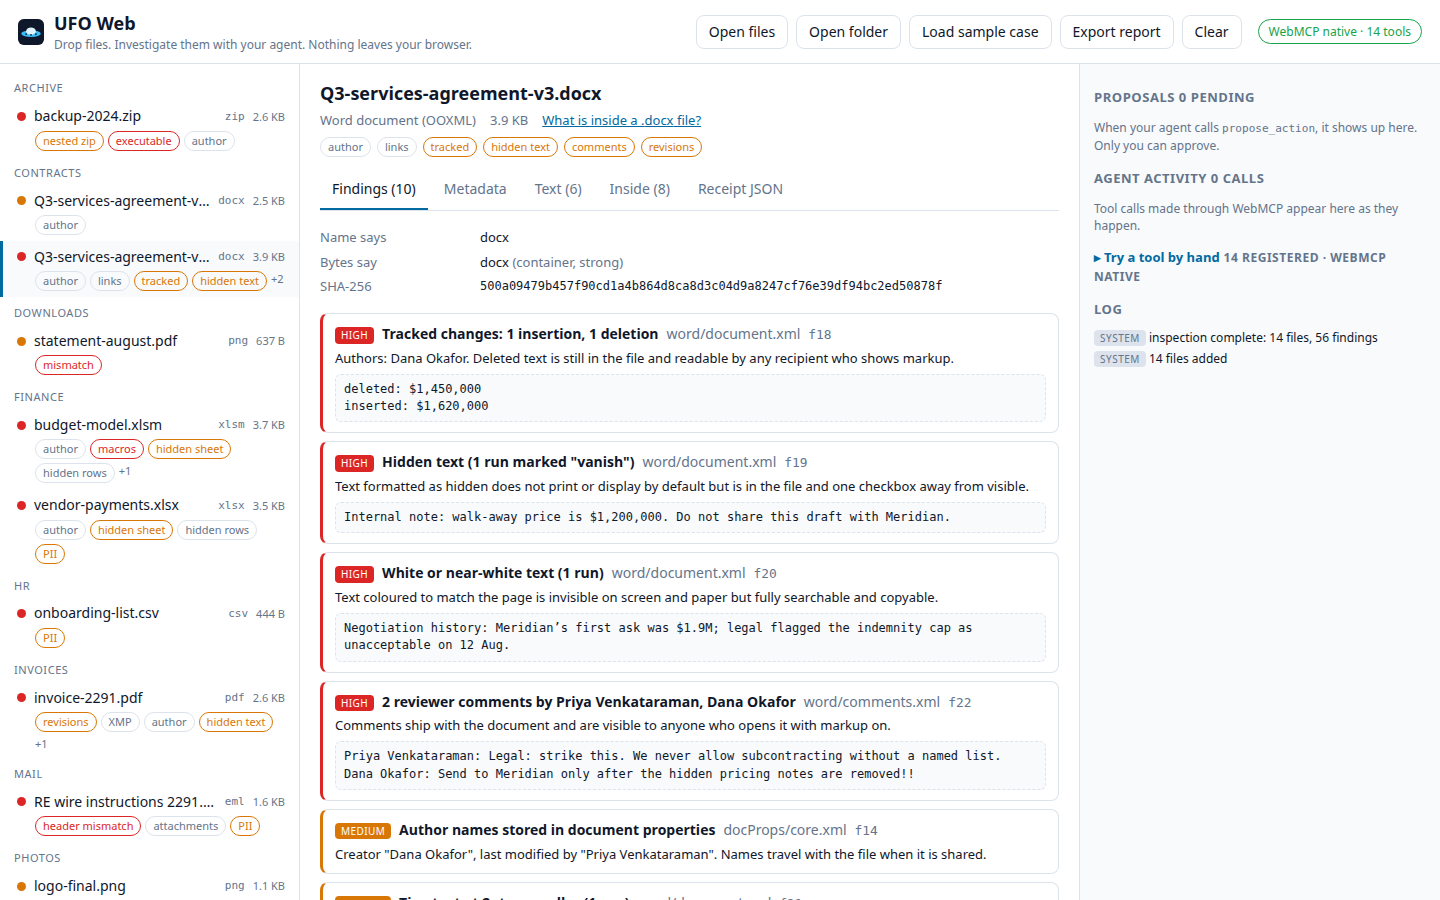
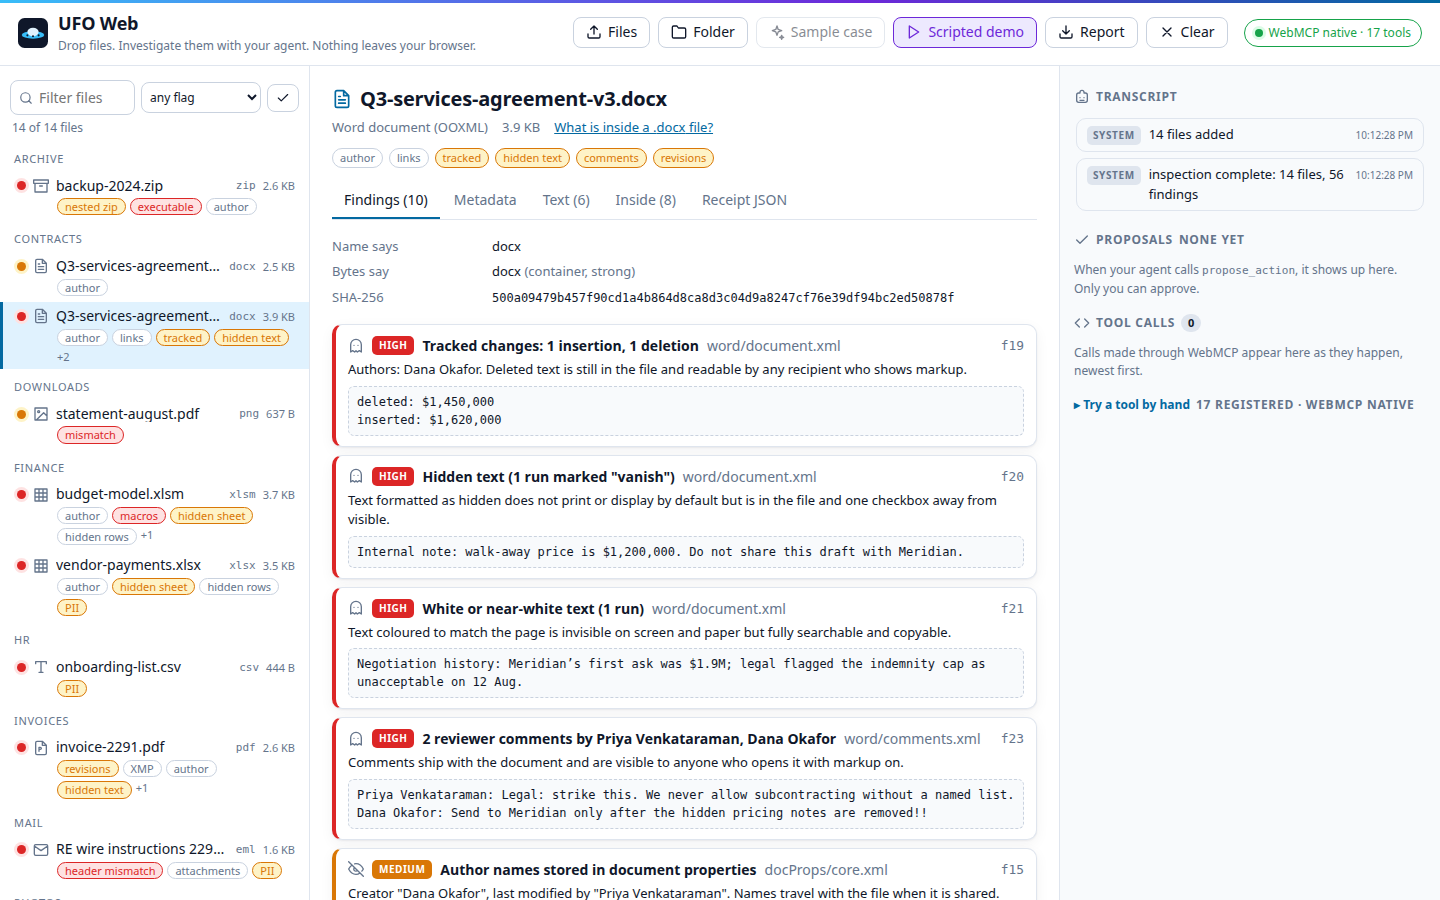
Prefer the geotagged photo in the demo; extend narration; refresh screenshots; update README

diff --git a/src/ui/demo.ts b/src/ui/demo.ts
@@ -135,7 +135,8 @@ export async function runScriptedDemo(): Promise<void> {
     await pause(600)
 
     say('agent', 'Proposing actions. Your call on each.')
-    const strip = files.find((f) => ['jpeg', 'png', 'docx', 'xlsx', 'pptx', 'pdf', 'docm', 'xlsm', 'pptm'].includes(f.kind) && (f.flags.includes('has_gps') || f.flags.includes('has_author')))
+    const cleanable = files.filter((f) => ['jpeg', 'png', 'docx', 'xlsx', 'pptx', 'pdf', 'docm', 'xlsm', 'pptm'].includes(f.kind) && (f.flags.includes('has_gps') || f.flags.includes('has_author')))
+    const strip = cleanable.sort((a, b) => (b.flags.includes('has_gps') ? 4 : 0) + (b.flags.includes('has_device_ids') ? 2 : 0) + b.flags.length - ((a.flags.includes('has_gps') ? 4 : 0) + (a.flags.includes('has_device_ids') ? 2 : 0) + a.flags.length))[0]
     if (strip) await invoke('propose_action', { path: strip.path, action: 'strip_metadata', reason: `Identity metadata (${strip.flags.filter((x) => ['has_gps', 'has_author', 'has_device_ids', 'has_comments', 'has_revision_history'].includes(x)).join(', ')}) would leave with this file.`, severity: 'high' })
     const quarantine = files.find((f) => f.flags.includes('has_executable') || f.flags.includes('has_macros'))
     if (quarantine) await invoke('propose_action', { path: quarantine.path, action: 'quarantine', reason: quarantine.flags.includes('has_executable') ? 'Carries executable code. Keep it out of anything shared.' : 'Carries a macro project. Keep it out of anything shared until reviewed.', severity: 'high' })
@@ -152,7 +153,8 @@ export async function runScriptedDemo(): Promise<void> {
     const results = await invoke('list_proposals', {})
     const list = (results.proposals ?? []) as { status: string; action: string; result?: { message?: string } }[]
     const approved = list.filter((p) => p.status === 'approved')
-    say('agent', `${approved.length} approved, ${list.length - approved.length} rejected.${approved.find((p) => p.action === 'strip_metadata')?.result?.message ? ` Cleaned copy: ${approved.find((p) => p.action === 'strip_metadata')!.result!.message}.` : ''} Exporting the report.`)
+    const stripResult = approved.find((p) => p.action === 'strip_metadata')?.result?.message
+    say('agent', `${approved.length} approved, ${list.length - approved.length} rejected.${stripResult ? ` ${stripResult[0].toUpperCase()}${stripResult.slice(1)}.` : ''} Exporting the report.`)
     const report = await invoke('export_report', { format: 'markdown' })
     say('agent', `Report ready: ${report.file} (${report.bytes} bytes). It ends with the ufo command line that reproduces these receipts.`)
   } catch (error) {

diff --git a/README.md b/README.md
@@ -2,14 +2,15 @@
 
 **Drop files. Investigate them with your agent. Nothing leaves your browser.**
 
-Live: **https://web.universalfileopener.com** · Demo video: see `docs/SUBMISSION.md` · License: MIT
+Live: **https://web.universalfileopener.com** · Demo video: see [docs/SUBMISSION.md](docs/SUBMISSION.md) · License: MIT
 
 UFO Web is a file-investigation workspace that exposes itself to AI agents through
 [WebMCP](https://github.com/webmachinelearning/webmcp). You drop a folder. The page reads what is
-really inside every file, in the tab, with no upload. Your agent gets fourteen structured tools to reason
+really inside every file, in the tab, with no upload. Your agent gets seventeen structured tools to reason
 across all of it: true type versus claimed type, hidden and white text, tracked changes, comments, hidden
 sheets and slides, GPS and camera serials, macros, nested archives, look-alike characters in code,
-personal-data patterns, prompt-injection text. You get the approve button.
+personal-data patterns, prompt-injection text, who appears where, what is a copy of what. You get the
+approve button.
 
 It is the open-source browser edition of [Universal File Opener](https://universalfileopener.com) and
 emits receipts with the same identity fields as the `ufo inspect --json` command line.
@@ -20,14 +21,14 @@ emits receipts with the same identity fields as the `ufo inspect --json` command
 
 | The agent does | The person does |
 | --- | --- |
-| Orients across hundreds of files (`list_files`, `find`, `search`) | Drops the folder; nothing is uploaded |
-| Reads what humans miss: hidden text, deleted tracked changes, veryHidden sheets, invisible PDF text, bidi characters (`hidden_content_scan`, `extract_text`) | Judges whether it matters |
-| Builds a cross-file picture: who touched what, when (`timeline`, `compare`, `privacy_scan`) | Decides what is acceptable to share |
+| Orients across hundreds of files (`list_files`, `find`, `search`, `filter_file_list`) | Drops the folder; nothing is uploaded |
+| Reads what humans miss: hidden text, deleted tracked changes, veryHidden sheets, invisible PDF text, bidi characters (`hidden_content_scan`, `extract_text`, `peek_bytes`) | Judges whether it matters |
+| Builds the cross-file picture: who appears where, what is a copy, what happened when (`entities`, `duplicates`, `timeline`, `compare`, `privacy_scan`) | Decides what is acceptable to share |
 | Proposes actions under its own identity (`propose_action`) | **Approves or rejects.** There is no approve tool; the button is human-only |
 | Writes the report (`export_report`) | Keeps the cleaned copies and the decision log |
 
-Approving `strip_metadata` produces a cleaned copy in the page (JPEG, PNG, Word, Excel, PowerPoint, PDF)
-and re-inspects it, so the report shows findings before and after. Nothing is ever written over the original.
+Approving `strip_metadata` produces a cleaned copy in the page (JPEG, PNG, Word, Excel, PowerPoint, PDF),
+re-inspects it, and records findings before and after. Nothing is ever written over the original.
 
 ## Try it
 
@@ -36,43 +37,54 @@ and ask: *"Load the sample case, run a privacy scan, and propose what to clean b
 Site tools need the GPT-5.6 Sol or Terra models.
 
 **Chrome 149+.** Enable `chrome://flags/#enable-webmcp-testing`, open the page, then DevTools → Application →
-WebMCP lists the tools and lets you run them. The "Try a tool by hand" panel in the page does the same, and
-the console has `ufoWeb.tools()`, `ufoWeb.call('privacy_scan', {})`, `ufoWeb.state()`.
+WebMCP lists the tools and lets you run them. Or press **Scripted demo** in the header: it replays a fixed
+sequence of tool calls through the browser's own `modelContext.getTools` and `executeTool`, narrates what it
+finds in the transcript, and stops at the proposals until you decide. No language model is involved and it
+says so.
 
 **Any browser.** Without a native implementation the page loads the MIT `@mcp-b/global` polyfill so MCP-B
-extension clients can still call the tools. The workspace itself works everywhere.
+extension clients can still call the tools. The workspace, the scripted demo, and the "Try a tool by hand"
+console work everywhere. The console also has `ufoWeb.tools()`, `ufoWeb.call('privacy_scan', {})`,
+`ufoWeb.state()`.
 
 Click **Load the sample case** for a synthetic 14-file "Q3 close" folder built to exercise every scanner:
 a contract with tracked changes, a hidden paragraph, white text, 1pt text and reviewer comments; a workbook
 with a veryHidden salaries sheet; a macro workbook with an Auto_Open stub; a deck with a hidden slide and
 speaker notes; an invoice PDF with invisible text, white text, off-page text, two revisions and disagreeing
 XMP; a geotagged photo with camera serial and thumbnail; a wire-fraud email with a mismatched Reply-To; a
-PNG that was renamed `.pdf`; a nested ZIP carrying a renamed executable; a Python file with Trojan Source
-bidi characters and a Cyrillic homoglyph; a CSV of fake SSNs and card numbers; and a README that tries to
-prompt-inject the agent. Every name, number and address is fictional.
+PNG that was renamed `.pdf`; a nested ZIP carrying a renamed executable and a byte-identical copy of an
+older contract; a Python file with Trojan Source bidi characters and a Cyrillic homoglyph; a CSV of fake
+SSNs and card numbers; and a README that tries to prompt-inject the agent. Every name, number and address
+is fictional.
 
 ## The tools
 
 | Tool | What it does | Notes |
 | --- | --- | --- |
 | `workspace_status` | Counts, progress, findings by severity, pending proposals | read-only |
-| `load_sample_case` | Loads the synthetic case and registers the investigation tools | |
+| `load_sample_case` | Loads the synthetic case | |
 | `list_files` | Tree with true type, size, flags, finding counts; filters; nested entries | read-only |
-| `inspect` | Receipt for one file: identity, name-vs-bytes, flags, findings, container, text units; sections for depth | read-only, untrusted content |
-| `extract_text` | Paged text with provenance (page, sheet, slide, notes, comments, hidden text) | read-only, untrusted content |
+| `inspect` | Receipt for one file: identity, name-vs-bytes, flags, findings, container, text units; sections for depth; selects it in the UI | read-only, untrusted content |
+| `extract_text` | Paged text with provenance (page, sheet, slide, notes, comments, hidden text, strings) | read-only, untrusted content |
 | `search` | Text, metadata, findings and archive-entry search across everything | read-only, untrusted content |
 | `find` | Structured query: flags, kind, family, author, size, mismatch, severity | read-only |
 | `privacy_scan` | Everything that identifies a person, place, device or organization | read-only |
 | `hidden_content_scan` | Everything a reader would not see | read-only |
+| `entities` | People, addresses, domains, organizations, devices, with the files each appears in | read-only |
+| `duplicates` | Byte-identical files anywhere, including inside archives; same name, different content | read-only |
 | `compare` | Two files: bytes, metadata, flags, text diff | read-only |
 | `timeline` | Every internal date merged, with anomalies | read-only |
-| `propose_action` | note, flag, strip_metadata, rename_extension, quarantine; awaits the human | writes a proposal |
+| `peek_bytes` | Bounded hex dump of any file or archive entry | read-only |
+| `propose_action` | note, flag, strip_metadata, rename_extension, quarantine; awaits the person | writes a proposal |
 | `list_proposals` | Decisions and results (cleaned-copy hash, findings before/after) | read-only |
 | `export_report` | JSON or Markdown: receipts, findings, decisions, `ufo` CLI reproduce block | offers a download |
+| `filter_file_list` | The sidebar's filter form, exposed through the **declarative** API (`toolname`, `toolparamdescription`, `toolautosubmit`); the agent and the person see the same filtered list | declarative, Chrome |
 
-`workspace_status` and `load_sample_case` are registered on page load. The other twelve are registered when
-the workspace gains files and unregistered when it is cleared, so an agent listening for `toolchange` sees
-the workspace come alive.
+All seventeen imperative tools are registered at page load, so a host sees the whole set on first contact.
+When the person clears the workspace the investigation group is unregistered (`toolchange` fires) and it
+returns with the next files. [docs/evals/ufo-web.evals.json](docs/evals/ufo-web.evals.json) holds
+eighteen eval cases in the format of Chrome's WebMCP evals CLI, including one whose correct answer is to
+call nothing.
 
 ## WebMCP implementation
 
@@ -87,6 +99,11 @@ the workspace come alive.
 - Extracted text is always wrapped in `<<<UNTRUSTED FILE CONTENT ...>>>` delimiters and the tool
   descriptions say so. The sample README contains an injection attempt; because approvals are not exposed
   as tools, the text has nothing to act on.
+- The declarative filter form answers agent submissions through `SubmitEvent.respondWith` with the same
+  content shape.
+- Verified against Chrome 149's own API in [`scripts/probe-api.mjs`](scripts/probe-api.mjs): `getTools()`
+  lists 18 tools with their annotations, `executeTool()` round-trips both an imperative and the declarative
+  tool, and `toolchange` fires 16 times when the workspace is cleared.
 - Registration code, for the record:
 
 ```ts
@@ -114,25 +131,41 @@ Office packages, pdf.js for PDF, exifr for EXIF/XMP/IPTC. pdf-lib rewrites PDFs 
 - **PowerPoint**: hidden slides, speaker notes, per-slide text.
 - **PDF**: Info dictionary and XMP (and whether they disagree), incremental revisions, trailing data,
   JavaScript, embedded files, text per page, and an operator-list scan for render-mode-3/7 invisible text,
-  white-filled text, and text drawn outside the page.
+  white-filled text, and text drawn outside the page. A wedged parse times out instead of stalling the queue.
 - **Images**: EXIF GPS, artist, copyright, body and lens serials, software, description, embedded
   thumbnail, PNG text chunks, data appended after the end marker.
 - **Email**: header chain, Reply-To and Return-Path domain mismatches, originating IP, attachments with
   executable extensions, body text.
 - **Archives**: entries, encrypted entries, trailing data, path-traversal names, nested inspection two
   levels deep within a byte budget.
+- **Executables and unknown binaries**: printable strings (ASCII and UTF-16), PE header (machine, subsystem,
+  sections, link timestamp onto the timeline, packer hints), hex peeks on demand.
 - **Every text**: zero-width, bidi and control characters with line and column; mixed-script words;
   SSN, card (Luhn), IBAN (mod-97), email, phone, address, IP patterns; credential-shaped strings; text
-  addressed to AI agents.
+  addressed to AI agents. All scanners are linear in input size; long lines are capped.
 
 The receipt schema is [`src/core/types.ts`](src/core/types.ts). Its identity fields (`path`, `name`,
 `kind`, `extension`, `sizeBytes`, `sha256`, `lastModifiedMillis`, `nameSaysKind`, `bytesSayKind`,
 `nameAndBytesDisagree`) are the ones `ufo inspect --json` prints, so a web receipt and a CLI receipt line up.
 
+## Tests
+
+```bash
+npm test                      # 60 unit tests: parsers on the sample case, hostile input, the workspace
+node scripts/e2e.mjs          # full flow in Chrome 149 with --enable-features=WebMCP
+node scripts/e2e-extra.mjs    # declarative tool, scripted demo, file picker, mobile, dark mode
+node scripts/probe-api.mjs    # the browser's own getTools / executeTool / toolchange
+```
+
+The hostile-input suite truncates every sample at four points, feeds random bytes under all 196 known
+extensions, builds archives with traversal names, five-level nesting, appended data and encrypted entries,
+and checks that a 300 KB single-line file scans in under a second. Every case must resolve to a receipt;
+errors are recorded in it, never thrown.
+
 ## Limits, stated honestly
 
 - Per file 150 MB, workspace 600 MB, 1500 files, PDFs read to 60 pages, sheets to 2000 rows, nested
-  archives two levels deep.
+  archives two levels deep, text scanned to 600K characters per file.
 - Legacy OLE formats (.doc, .xls, .ppt, .msg), RAR/7z contents, and repair, OCR, redaction and conversion are
   not in the browser edition. The receipts say so and name the `ufo` command or app that does it.
 - Pattern matches are pattern matches. Card numbers pass Luhn and IBANs pass mod-97; emails and phones are
@@ -143,11 +176,10 @@ The receipt schema is [`src/core/types.ts`](src/core/types.ts). Its identity fie
 ```bash
 npm ci
 npm run dev          # Vite dev server
-npm test             # 22 unit tests over the sample case (vitest)
+npm test             # vitest
 npm run build        # tsc + vite build into dist/
 npm run samples      # regenerate public/samples (Python 3, Pillow, piexif)
-node scripts/e2e.mjs # full flow in Chrome 149 with --enable-features=WebMCP
-node scripts/probe-api.mjs   # exercise the browser's own getTools/executeTool/toolchange
+node scripts/video/make.mjs   # narrated demo video: edge-tts + Chrome screencast + ffmpeg
 ```
 
 Deployed by Cloudflare Pages from this repository (`npm run build`, output `dist`). `public/_headers` sets
